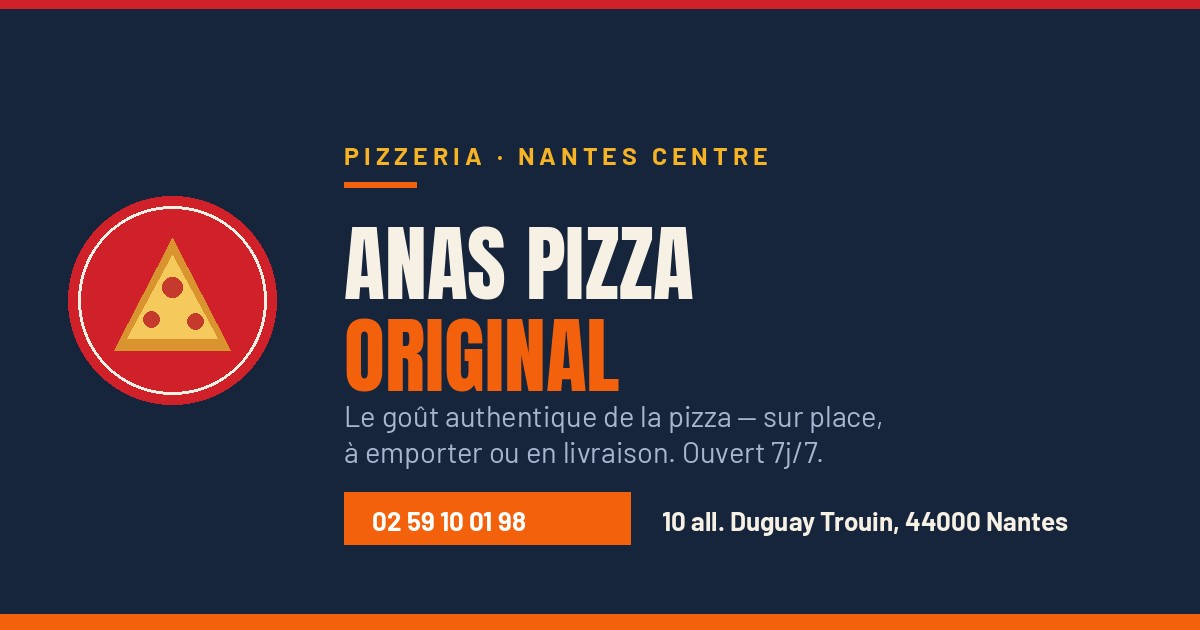
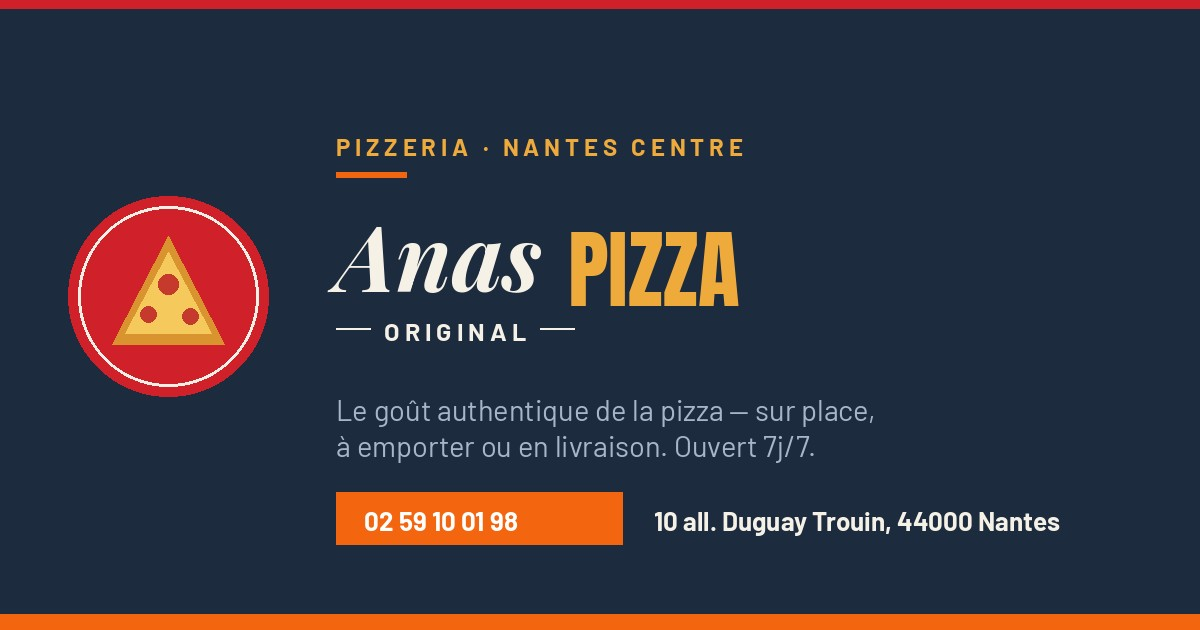
Cale l'identité sur la devanture et fiabilise l'ajout des photos
Identité visuelle
- Logotype recomposé à l'identique du panneau de l'enseigne : « Anas » en
  serif crème, « PIZZA » en doré #EFAA3C, « — ORIGINAL — » en dessous entre
  deux filets. Le doré manquait : « PIZZA » était en orange.
- Palette recalée sur les photos du local : bleu du panneau #1C2B3E,
  orange des murs #F4650F, blanc cassé du lettrage #F6F1E7.
- Image de partage refaite pour reproduire la composition de l'enseigne.

Photos
- Le chargement tolère désormais toutes les extensions courantes : il suffit
  de nommer le fichier « devanture », « salle » ou « pizza », en .jpg, .jpeg,
  .png, .webp ou .avif, majuscules comprises. Le script essaie chaque
  extension avant de basculer sur l'emplacement neutre.
- La légende est masquée quand la photo est absente, pour que la section
  reste propre.
- assets/img/README.md décrit la méthode d'ajout en trois clics via GitHub.

Crédit agence
- Le pied de page pointe vers raythan.fr et affiche l'adresse e-mail de
  l'agence.

Claude-Session: https://claude.ai/code/session_012spMqbkV6S5bCpcQ7xok7v

diff --git a/assets/css/styles.css b/assets/css/styles.css
@@ -33,26 +33,27 @@
    2. Palette — relevée sur la devanture et la salle
    -------------------------------------------------------------------------- */
 :root{
-  --navy-900:#0F1A2C;   /* pied de page */
-  --navy-800:#16243C;   /* bleu de l'enseigne — fond principal */
-  --navy-700:#1D3050;
-  --navy-600:#2A4166;
-  --orange:#F4610D;     /* orange des murs de la salle */
+  --navy-900:#131F2E;   /* pied de page */
+  --navy-800:#1C2B3E;   /* bleu du panneau de l'enseigne — fond principal */
+  --navy-700:#25384F;
+  --navy-600:#33495F;
+  --orange:#F4650F;     /* orange des murs de la salle */
   --orange-800:#C94D06;
   --red:#D0202A;        /* rouge du logo rond */
   --red-800:#A5151E;
+  --brand-gold:#EFAA3C; /* le « PIZZA » doré de l'enseigne */
   --gold:#F5B325;       /* jaune des titres de la carte */
-  --cream:#F7F0E4;
+  --cream:#F6F1E7;      /* blanc cassé du lettrage */
   --cream-2:#EBE0CD;
 
   /* rôles — redéfinis par les thèmes de section ci-dessous */
   --bg:var(--navy-800);
   --fg:var(--cream);
-  --fg-2:#A6B6CE;
-  --rule:rgba(247,240,228,.16);
-  --rule-2:rgba(247,240,228,.09);
-  --surface:#1B2C49;
-  --surface-2:#20355A;
+  --fg-2:#A7B5C8;
+  --rule:rgba(246,241,231,.16);
+  --rule-2:rgba(246,241,231,.09);
+  --surface:#223349;
+  --surface-2:#2A3E56;
 
   /* typographie */
   --f-display:Anton,"Arial Narrow",Impact,sans-serif;
@@ -75,19 +76,19 @@
 .t-cream{
   --bg:var(--cream);
   --fg:var(--navy-800);
-  --fg-2:#5C6D87;
-  --rule:rgba(22,36,60,.16);
-  --rule-2:rgba(22,36,60,.09);
+  --fg-2:#5C6C83;
+  --rule:rgba(28,43,62,.17);
+  --rule-2:rgba(28,43,62,.1);
   --surface:#FFFDF8;
   --surface-2:var(--cream-2);
 }
 /* thème orange plein : le bandeau de repères */
 .t-orange{
   --bg:var(--orange);
-  --fg:#16243C;
-  --fg-2:rgba(22,36,60,.8);
-  --rule:rgba(22,36,60,.25);
-  --rule-2:rgba(22,36,60,.14);
+  --fg:#1C2B3E;
+  --fg-2:rgba(28,43,62,.82);
+  --rule:rgba(28,43,62,.26);
+  --rule-2:rgba(28,43,62,.15);
   --surface:rgba(255,255,255,.16);
   --surface-2:rgba(255,255,255,.1);
 }
@@ -203,15 +204,17 @@ button{font:inherit;color:inherit;background:none;border:0;cursor:pointer}
   border-bottom:1px solid transparent;
   transition:border-color .2s var(--ease);
 }
-.header.is-stuck{border-bottom-color:rgba(247,240,228,.14)}
+.header.is-stuck{border-bottom-color:rgba(246,241,231,.14)}
 .header__inner{display:flex;align-items:center;gap:.9rem;height:var(--hdr)}
 
 .brand{display:inline-flex;align-items:center;gap:.6rem;color:var(--cream);flex:none}
 .brand__mark{width:36px;height:36px;flex:none}
 .brand__txt{display:grid;line-height:1}
 .brand__a{font:700 italic 1.2rem/1 var(--f-serif)}
-.brand__a i{font-style:normal;color:var(--orange);font-family:var(--f-cond);font-weight:700;letter-spacing:.05em;text-transform:uppercase;font-size:.95em}
-.brand__b{font:600 .53rem/1 var(--f-body);letter-spacing:.4em;text-transform:uppercase;color:#8FA0BA;margin-top:3px}
+.brand__a i{font-style:normal;color:var(--brand-gold);font-family:var(--f-cond);font-weight:700;letter-spacing:.05em;text-transform:uppercase;font-size:.95em}
+.brand__b{display:flex;align-items:center;gap:.45em;margin-top:4px;color:var(--cream);opacity:.85}
+.brand__b span{font:600 .53rem/1 var(--f-body);letter-spacing:.4em;text-transform:uppercase;margin-right:-.4em}
+.brand__b::before,.brand__b::after{content:"";flex:none;width:11px;height:1px;background:currentColor;opacity:.7}
 
 .nav{display:none}
 .header__spacer{flex:1}
@@ -219,14 +222,14 @@ button{font:inherit;color:inherit;background:none;border:0;cursor:pointer}
 .header__tel{
   display:inline-flex;align-items:center;gap:.4rem;flex:none;
   padding:.45rem .8rem;border-radius:var(--r);
-  border:1.5px solid rgba(247,240,228,.28);color:var(--cream);
+  border:1.5px solid rgba(246,241,231,.28);color:var(--cream);
   font:700 .9rem/1 var(--f-cond);letter-spacing:.04em;
   transition:background-color .18s,border-color .18s,color .18s;
 }
 .header__tel svg{width:15px;height:15px}
 .header__tel:hover{background:var(--orange);border-color:var(--orange);color:#fff}
 
-.burger{width:42px;height:42px;flex:none;display:grid;place-items:center;border-radius:var(--r);border:1.5px solid rgba(247,240,228,.28)}
+.burger{width:42px;height:42px;flex:none;display:grid;place-items:center;border-radius:var(--r);border:1.5px solid rgba(246,241,231,.28)}
 .burger span{display:block;width:18px;height:2px;background:var(--cream);transition:transform .3s var(--ease),opacity .16s}
 .burger span+span{margin-top:5px}
 .burger[aria-expanded=true] span:nth-child(1){transform:translateY(7px) rotate(45deg)}
@@ -443,7 +446,7 @@ button{font:inherit;color:inherit;background:none;border:0;cursor:pointer}
 }
 .mapcard::before{
   content:"";position:absolute;inset:0;opacity:.28;
-  background-image:linear-gradient(rgba(247,240,228,.22) 1px,transparent 1px),linear-gradient(90deg,rgba(247,240,228,.22) 1px,transparent 1px);
+  background-image:linear-gradient(rgba(246,241,231,.22) 1px,transparent 1px),linear-gradient(90deg,rgba(246,241,231,.22) 1px,transparent 1px);
   background-size:34px 34px;
 }
 .mapcard__pin{position:absolute;top:34%;left:50%;translate:-50% -50%;width:34px;height:34px;border-radius:50% 50% 50% 2px;rotate:-45deg;background:var(--red);border:3px solid var(--cream)}
@@ -496,13 +499,13 @@ button{font:inherit;color:inherit;background:none;border:0;cursor:pointer}
 .footer__list{display:grid;gap:.55rem}
 .footer__list a{color:#A6B6CE;font-size:.94rem}
 .footer__list a:hover{color:var(--gold)}
-.footer__bottom{border-top:1px solid rgba(247,240,228,.14);padding-top:1.3rem;display:grid;gap:.7rem;font-size:.85rem;color:#8FA0BA}
+.footer__bottom{border-top:1px solid rgba(246,241,231,.14);padding-top:1.3rem;display:grid;gap:.7rem;font-size:.85rem;color:#8FA0BA}
 .footer__bottom nav{display:flex;flex-wrap:wrap;gap:.3rem 1rem}
 .footer__bottom a:hover{color:var(--gold)}
 .credit{
   max-width:none;
   display:flex;align-items:center;gap:.45rem;
-  margin-top:1.1rem;padding-top:1.1rem;border-top:1px solid rgba(247,240,228,.14);
+  margin-top:1.1rem;padding-top:1.1rem;border-top:1px solid rgba(246,241,231,.14);
   font-size:.82rem;color:#8FA0BA;
 }
 .credit a{color:var(--cream);font-weight:600;text-decoration:underline;text-underline-offset:3px;text-decoration-color:var(--orange);text-decoration-thickness:2px}
@@ -514,7 +517,7 @@ button{font:inherit;color:inherit;background:none;border:0;cursor:pointer}
 .actionbar{
   position:fixed;left:0;right:0;bottom:0;z-index:65;
   display:grid;grid-template-columns:1fr 1fr 1fr;
-  background:var(--navy-900);border-top:1px solid rgba(247,240,228,.16);
+  background:var(--navy-900);border-top:1px solid rgba(246,241,231,.16);
   padding-bottom:env(safe-area-inset-bottom);
   transform:translateY(102%);transition:transform .28s var(--ease);
 }
@@ -522,7 +525,7 @@ button{font:inherit;color:inherit;background:none;border:0;cursor:pointer}
 .actionbar a{
   display:grid;justify-items:center;gap:.2rem;padding:.6rem .3rem;
   color:var(--cream);font:700 .66rem/1 var(--f-cond);letter-spacing:.08em;text-transform:uppercase;
-  border-right:1px solid rgba(247,240,228,.14);
+  border-right:1px solid rgba(246,241,231,.14);
 }
 .actionbar a:last-child{border-right:0}
 .actionbar a svg{width:18px;height:18px;color:var(--gold)}

diff --git a/index.html b/index.html
@@ -3,7 +3,7 @@
 <head>
 <meta charset="utf-8">
 <meta name="viewport" content="width=device-width, initial-scale=1, viewport-fit=cover">
-<meta name="theme-color" content="#16243C">
+<meta name="theme-color" content="#1C2B3E">
 <meta name="color-scheme" content="dark light">
 
 <!-- ═══════════════════════════════════════════════════════════════════════
@@ -176,7 +176,7 @@
       <img class="brand__mark" src="assets/img/emblem.svg" alt="" width="36" height="36">
       <span class="brand__txt">
         <span class="brand__a">Anas <i>Pizza</i></span>
-        <span class="brand__b">Original</span>
+        <span class="brand__b"><span>Original</span></span>
       </span>
     </a>
 
@@ -813,7 +813,7 @@
           <img class="brand__mark" src="assets/img/emblem.svg" alt="" width="36" height="36">
           <span class="brand__txt">
             <span class="brand__a">Anas <i>Pizza</i></span>
-            <span class="brand__b">Original</span>
+            <span class="brand__b"><span>Original</span></span>
           </span>
         </span>
         <p>Pizzeria à Nantes centre. Pizzas cuites à la commande : sur place, à emporter ou en livraison. Ouvert 7j/7 dès 11h30.</p>
@@ -863,7 +863,9 @@
     <p class="credit">
       <svg viewBox="0 0 24 24" fill="none" stroke="currentColor" stroke-width="2" stroke-linecap="round" stroke-linejoin="round" width="14" height="14" aria-hidden="true"><path d="m8 18-6-6 6-6"/><path d="m16 6 6 6-6 6"/></svg>
       Site conçu et réalisé par
-      <a data-credit href="mailto:raythanwebdesign@gmail.com">Raythan Web Design</a>
+      <a data-credit href="https://raythan.fr" target="_blank" rel="noopener">Raythan Web Design</a>
+      <span aria-hidden="true">·</span>
+      <a href="mailto:raythanwebdesign@gmail.com">raythanwebdesign@gmail.com</a>
     </p>
   </div>
 </footer>

diff --git a/assets/js/main.js b/assets/js/main.js
@@ -311,15 +311,35 @@
   }
 
   /* ------------------------------------------------------------------ *
-   * 9. Photos optionnelles : si le fichier n'existe pas encore, on garde
-   *    l'emplacement stylé plutôt qu'une image cassée.
+   * 9. Photos du restaurant — tolérance sur l'extension du fichier.
+   *    On dépose devanture.jpg (ou .jpeg, .png, .webp, .avif) dans
+   *    assets/img/ : le script essaie chaque extension avant d'abandonner.
+   *    Si aucune photo n'est présente, l'emplacement stylé prend le relais.
    * ------------------------------------------------------------------ */
+  var EXTS = ['jpg', 'jpeg', 'png', 'webp', 'avif', 'JPG', 'JPEG', 'PNG', 'WEBP'];
+
   $$('.shot img').forEach(function (img) {
-    img.addEventListener('error', function () {
-      var ph = img.parentElement ? img.parentElement.querySelector('.shot__ph') : null;
+    var base = (img.getAttribute('src') || '').replace(/\.[a-z0-9]+$/i, '');
+    var next = 0;
+
+    var giveUp = function () {
+      var fig = img.parentElement;
+      var ph = fig ? fig.querySelector('.shot__ph') : null;
+      var cap = fig ? fig.querySelector('figcaption') : null;
       img.remove();
       if (ph) ph.hidden = false;
+      if (cap) cap.hidden = true;
+    };
+
+    img.addEventListener('error', function () {
+      if (!base) return giveUp();
+      while (next < EXTS.length) {
+        var candidate = base + '.' + EXTS[next++];
+        if (candidate !== img.getAttribute('src')) { img.src = candidate; return; }
+      }
+      giveUp();
     });
+
     if (img.complete && img.naturalWidth === 0) img.dispatchEvent(new Event('error'));
   });
 

diff --git a/politique-de-confidentialite.html b/politique-de-confidentialite.html
@@ -3,7 +3,7 @@
 <head>
 <meta charset="utf-8">
 <meta name="viewport" content="width=device-width, initial-scale=1, viewport-fit=cover">
-<meta name="theme-color" content="#16243C">
+<meta name="theme-color" content="#1C2B3E">
 <meta name="color-scheme" content="dark light">
 
 <title>Politique de confidentialité &amp; cookies — Anas Pizza Original, Nantes</title>
@@ -46,7 +46,7 @@
       <img class="brand__mark" src="assets/img/emblem.svg" alt="" width="38" height="38">
       <span class="brand__txt">
         <span class="brand__a">Anas <i>Pizza</i></span>
-        <span class="brand__b">Original</span>
+        <span class="brand__b"><span>Original</span></span>
       </span>
     </a>
 
@@ -272,7 +272,9 @@
     <p class="credit">
       <svg viewBox="0 0 24 24" fill="none" stroke="currentColor" stroke-width="2" stroke-linecap="round" stroke-linejoin="round" width="14" height="14" aria-hidden="true"><path d="m8 18-6-6 6-6"/><path d="m16 6 6 6-6 6"/></svg>
       Site conçu et réalisé par
-      <a data-credit href="mailto:raythanwebdesign@gmail.com">Raythan Web Design</a>
+      <a data-credit href="https://raythan.fr" target="_blank" rel="noopener">Raythan Web Design</a>
+      <span aria-hidden="true">·</span>
+      <a href="mailto:raythanwebdesign@gmail.com">raythanwebdesign@gmail.com</a>
     </p>
   </div>
 </footer>

diff --git a/mentions-legales.html b/mentions-legales.html
@@ -3,7 +3,7 @@
 <head>
 <meta charset="utf-8">
 <meta name="viewport" content="width=device-width, initial-scale=1, viewport-fit=cover">
-<meta name="theme-color" content="#16243C">
+<meta name="theme-color" content="#1C2B3E">
 <meta name="color-scheme" content="dark light">
 
 <title>Mentions légales — Anas Pizza Original, Nantes</title>
@@ -46,7 +46,7 @@
       <img class="brand__mark" src="assets/img/emblem.svg" alt="" width="38" height="38">
       <span class="brand__txt">
         <span class="brand__a">Anas <i>Pizza</i></span>
-        <span class="brand__b">Original</span>
+        <span class="brand__b"><span>Original</span></span>
       </span>
     </a>
 
@@ -233,7 +233,9 @@
     <p class="credit">
       <svg viewBox="0 0 24 24" fill="none" stroke="currentColor" stroke-width="2" stroke-linecap="round" stroke-linejoin="round" width="14" height="14" aria-hidden="true"><path d="m8 18-6-6 6-6"/><path d="m16 6 6 6-6 6"/></svg>
       Site conçu et réalisé par
-      <a data-credit href="mailto:raythanwebdesign@gmail.com">Raythan Web Design</a>
+      <a data-credit href="https://raythan.fr" target="_blank" rel="noopener">Raythan Web Design</a>
+      <span aria-hidden="true">·</span>
+      <a href="mailto:raythanwebdesign@gmail.com">raythanwebdesign@gmail.com</a>
     </p>
   </div>
 </footer>

diff --git a/404.html b/404.html
@@ -3,7 +3,7 @@
 <head>
 <meta charset="utf-8">
 <meta name="viewport" content="width=device-width, initial-scale=1, viewport-fit=cover">
-<meta name="theme-color" content="#16243C">
+<meta name="theme-color" content="#1C2B3E">
 <meta name="color-scheme" content="dark light">
 <title>Page introuvable — Anas Pizza Original</title>
 <meta name="description" content="Cette page n’existe pas ou plus. Retrouvez la carte, les horaires et les coordonnées d’Anas Pizza Original à Nantes.">
@@ -20,7 +20,7 @@
       <img class="brand__mark" src="assets/img/emblem.svg" alt="" width="38" height="38">
       <span class="brand__txt">
         <span class="brand__a">Anas <i>Pizza</i></span>
-        <span class="brand__b">Original</span>
+        <span class="brand__b"><span>Original</span></span>
       </span>
     </a>
     <span class="header__spacer"></span>

diff --git a/assets/img/README.md b/assets/img/README.md
@@ -3,27 +3,41 @@
 Déposez ici les **vraies photos** d'Anas Pizza Original. Elles s'affichent
 automatiquement dans la section « La maison » de la page d'accueil.
 
-Tant qu'un fichier est absent, le site affiche un emplacement stylé à sa place :
-**rien ne casse**, il manque juste la photo.
+## La méthode la plus courte (3 clics, sans git)
 
-## Fichiers attendus
+1. Sur GitHub, ouvrez le dossier `assets/img/` du dépôt.
+2. Bouton **Add file** → **Upload files**.
+3. Glissez vos photos, puis **Commit changes**.
 
-| Fichier          | Emplacement sur le site | Format conseillé            |
-|------------------|-------------------------|-----------------------------|
-| `devanture.jpg`  | Grande image du haut    | Paysage, 1600 × 1000 px     |
-| `salle.jpg`      | Vignette de gauche      | Portrait, 800 × 1000 px     |
-| `pizza.jpg`      | Vignette de droite      | Portrait, 800 × 1000 px     |
+Vercel redéploie tout seul dans la foulée : les photos sont en ligne en une
+minute environ.
+
+## Noms de fichiers
+
+Seul le **nom** compte, pas l'extension :
+
+| Nom à donner | Emplacement sur le site | Cadrage        |
+|--------------|-------------------------|----------------|
+| `devanture`  | Grande image du haut    | Paysage, 16/10 |
+| `salle`      | Vignette de gauche      | Portrait, 4/5  |
+| `pizza`      | Vignette de droite      | Portrait, 4/5  |
+
+`devanture.jpg`, `devanture.jpeg`, `devanture.png`, `devanture.webp`,
+`devanture.avif` et leurs variantes en majuscules fonctionnent toutes : le site
+essaie chaque extension à tour de rôle. Inutile de convertir quoi que ce soit.
+
+Tant qu'une photo est absente, un emplacement neutre s'affiche à sa place et sa
+légende est masquée : **rien ne casse**, il manque juste l'image.
 
 ## Conseils
 
-- **Poids** : viser moins de 250 Ko par photo (compression JPEG qualité 80 environ).
-  Une photo de téléphone brute pèse 4 Mo et ralentit fortement le site sur mobile.
+- **Poids** : viser moins de 250 Ko par photo. Une photo de téléphone brute
+  pèse 4 Mo et ralentit fortement le site sur mobile.
 - **Cadrage** : les vignettes sont rognées en portrait (4/5), la grande en 16/10.
   Laissez de la marge autour du sujet.
-- **Lumière** : les photos prises en journée, devanture ouverte, rendent le mieux.
-- Les photos de pizzas sortie du four sont les plus efficaces commercialement :
-  n'hésitez pas à en ajouter d'autres et à dupliquer un bloc `<figure class="shot">`
-  dans `index.html`.
+- Les photos de pizzas sortie du four sont les plus efficaces commercialement.
+  Pour en ajouter d'autres, dupliquez un bloc `<figure class="shot">` dans
+  `index.html`.
 
 ## Fichiers générés (ne pas supprimer)
 

diff --git a/README.md b/README.md
@@ -28,11 +28,11 @@ assets/img/                         logo, favicon, image de partage, photos
    grep -rl "anaspizza-nantes.fr" . --include="*.html" --include="*.xml" --include="*.txt" \
      | xargs sed -i 's|https://www.anaspizza-nantes.fr|https://VOTRE-DOMAINE|g'
    ```
-2. **Photos** — déposer `devanture.jpg`, `salle.jpg` et `pizza.jpg` dans `assets/img/`
-   (voir `assets/img/README.md`).
-3. **Crédit agence** — dans le pied de page d'`index.html`, remplacer le `href` du
-   lien `data-credit` par l'URL du site de Raythan Web Design.
-4. **Mentions légales** — compléter les coordonnées du médiateur de la consommation,
+2. **Photos** — déposer `devanture`, `salle` et `pizza` dans `assets/img/`.
+   L'extension n'a pas d'importance (`.jpg`, `.jpeg`, `.png`, `.webp`, `.avif`,
+   majuscules comprises) : le script essaie chacune à tour de rôle. Voir
+   `assets/img/README.md`.
+3. **Mentions légales** — compléter les coordonnées du médiateur de la consommation,
    et adapter l'hébergeur si le site n'est pas sur GitHub Pages.
 
 ## Modifier la carte
@@ -78,11 +78,15 @@ déclarées une seule fois en haut de `assets/css/styles.css` :
 
 | Jeton       | Valeur    | Origine                          |
 |-------------|-----------|----------------------------------|
-| `--navy-800`| `#16243C` | Bleu du panneau de l'enseigne    |
-| `--orange`  | `#F4610D` | Orange des murs de la salle      |
-| `--red`     | `#D0202A` | Rouge du logo rond               |
-| `--gold`    | `#F5B325` | Jaune des titres de la carte     |
-| `--cream`   | `#F7F0E4` | Blanc cassé du lettrage          |
+| `--navy-800`  | `#1C2B3E` | Bleu du panneau de l'enseigne          |
+| `--orange`    | `#F4650F` | Orange des murs de la salle            |
+| `--red`       | `#D0202A` | Rouge du logo rond                     |
+| `--brand-gold`| `#EFAA3C` | Doré du « PIZZA » de l'enseigne        |
+| `--gold`      | `#F5B325` | Jaune des titres de la carte           |
+| `--cream`     | `#F6F1E7` | Blanc cassé du lettrage                |
+
+Le logotype reprend la composition du panneau : « Anas » en serif crème,
+« PIZZA » en doré, « — ORIGINAL — » en dessous entre deux filets.
 
 Chaque section porte un thème (`t-cream`, `t-orange`, `t-red`) qui redéfinit
 localement `--bg`, `--fg`, `--rule` et `--surface`. Pour changer l'ambiance
